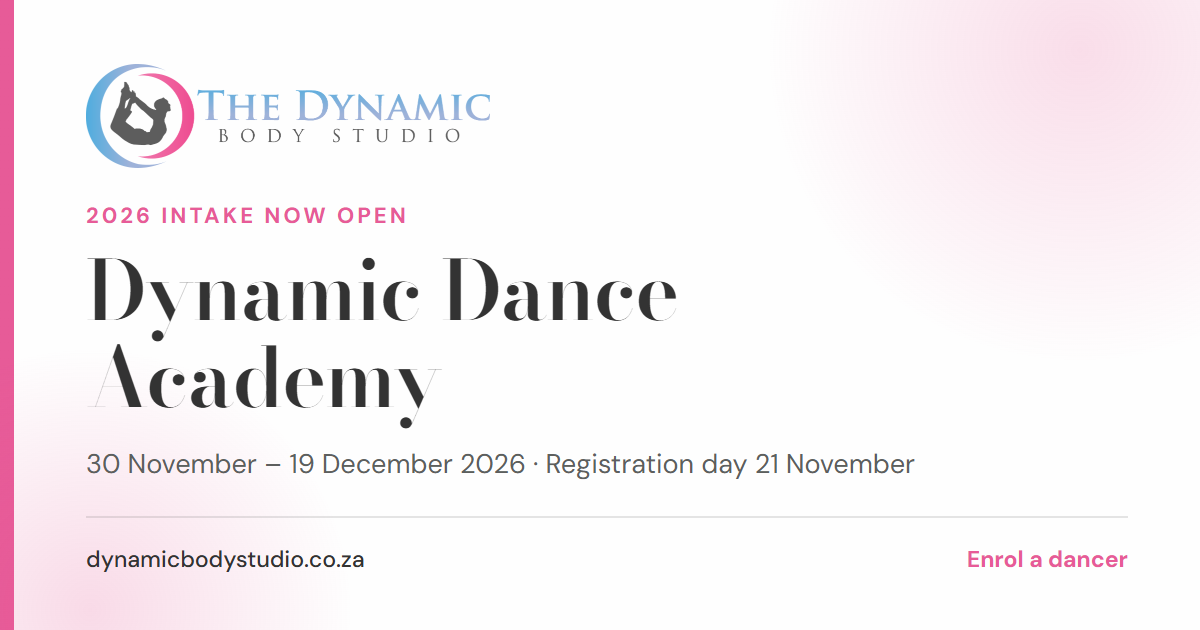
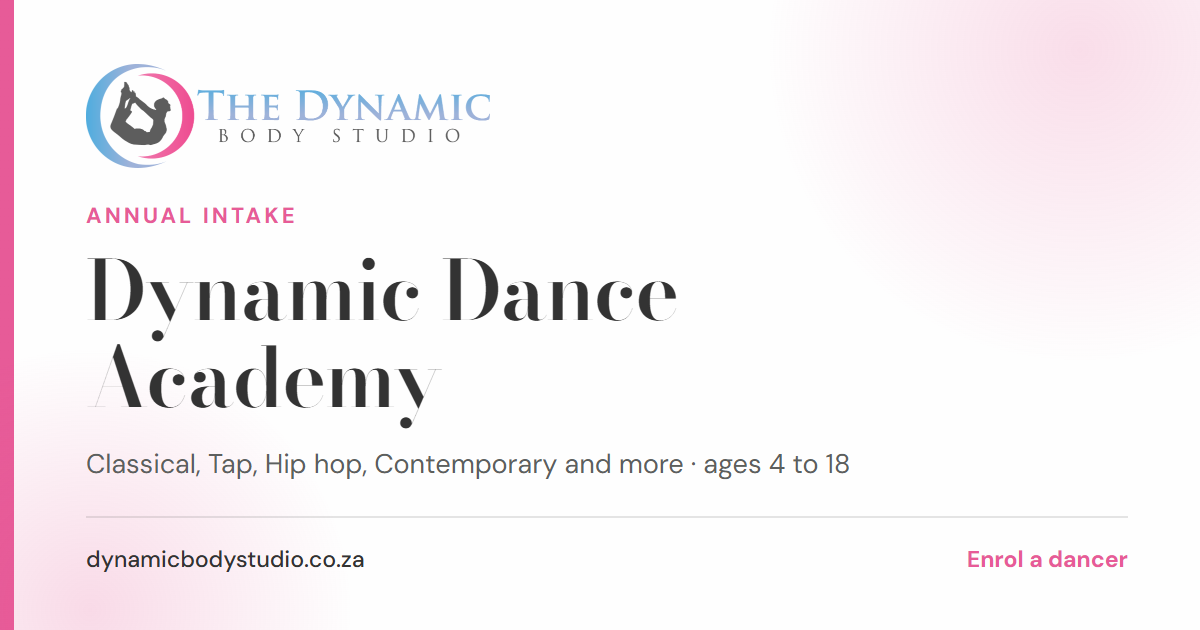
Make the share cards evergreen; enforce it in the gate
Owner: "maybe we shouldn't put dates on the og images so they're evergreen every
year without needing to change them?" Right, and for a sharper reason than tidiness.

The intake date already lives in three places (home banner, academy hero, hub card)
and all three must move together. A dated card makes it four - and the worst of the
four, because social platforms cache an image by URL. A page we can correct in a
minute; a cached card we cannot. A card still reading "2026 intake now open" in
January 2027 is worse than a card with no date at all.

Cards now carry no year, no date and no open/closed state. Each is a stable
description of what the page is:
  dance-academy  "Annual intake / Dynamic Dance Academy / ...ages 4 to 18"
  twinkle-toes   "Ballet for the little ones / Twinkle Toes Ballet"
The season lives on the page, which is always current.

Preview text made evergreen to match, since og:title and og:description appear
beside the card:
  dance-academy  dropped "2026" and the run dates
  twinkle-toes   dropped "next intake 2027" and the 2026-closed note
Also fixed the twinkle-toes <title>, which still said "Enrol" while the intake is
closed.

Gate extended to enforce the whole share-preview contract per page, not just the
image: correct card, 1200x630, summary_large_image, and no year or month in the
preview text. The generator now owns all of it.

Five controls, all proven to fail:
  OG_CARD_CONTROL_DATED=1    a dated card          -> NOT EVERGREEN
[…]

Changed region(s): [[0.0617, 0.7238, 0.7708, 0.754], [0.0617, 0.3317, 0.3392, 0.3619]]

diff --git a/_tools/gen_og_cards.js b/_tools/gen_og_cards.js
@@ -28,6 +28,21 @@ const OUT_DIR = path.join(ROOT, 'assets', 'og');
 // accent: 'blue' for studio/pilates, 'pink' for dance. Palette is read from the
 // site's own :root, not invented - see index.html lines 22-26.
 // ---------------------------------------------------------------------------
+// ---------------------------------------------------------------------------
+// The cards. One per shareable page.
+//
+// EVERGREEN BY DESIGN - owner decision 2026-10-08. These carry NO year, NO date and
+// NO open/closed state. Reasoning, and it is not cosmetic:
+//   * The intake date already lives in THREE places on the site (home banner, academy
+//     hero, hub card) and all three must move together. A dated card makes it four.
+//   * Social platforms cache an image by URL. A page we can correct in a minute; a
+//     cached card we cannot. A card still reading "2026 intake now open" in January
+//     2027 is worse than a card with no date at all.
+//   * A card's job is to earn the click. The page it links to always carries the
+//     current season, and that is the only place that should.
+// The annual routine therefore does NOT touch assets/og/. If you add a date here,
+// the gate below will fail the build - that is deliberate.
+// ---------------------------------------------------------------------------
 const CARDS = [
   {
     out: 'home.png',
@@ -55,29 +70,43 @@ const CARDS = [
   },
   {
     out: 'dance-academy.png',
-    kicker: '2026 intake now open',
+    kicker: 'Annual intake',
     title: 'Dynamic Dance Academy',
-    sub: '30 November \u2013 19 December 2026 \u00b7 Registration day 21 November',
+    sub: 'Classical, Tap, Hip hop, Contemporary and more \u00b7 ages 4 to 18',
     cta: 'Enrol a dancer',
     accent: 'pink',
   },
   {
     out: 'twinkle-toes.png',
-    kicker: 'Next intake 2027',
+    kicker: 'Ballet for the little ones',
     title: 'Twinkle Toes Ballet',
     sub: 'Ballet for our youngest dancers \u00b7 East London',
-    cta: 'Ask about 2027',
+    cta: 'Ask about the next intake',
     accent: 'pink',
   },
 ];
+
+// Which page uses which card. Checked by the share-preview gate below, so a page
+// pointing at the wrong card - or at the old logo - fails the build.
+const PAGES = {
+  'index.html': 'home.png',
+  'forms.html': 'enrol.png',
+  'enrol.html': 'studio.png',
+  'dance-academy.html': 'dance-academy.png',
+  'twinkle-toes.html': 'twinkle-toes.png',
+};
 
 // ---------------------------------------------------------------------------
 // CONTROLS - prove the layout gate can fail before trusting it.
 // An unproven check is decoration.
 //   OG_CARD_CONTROL_LONG=6   repeat the headline until it MUST overflow the frame
 //   OG_CARD_CONTROL_LOGO=1   reinstate the squashed-logo CSS that caused the bug
-// Both are expected to produce FAIL. If either passes, the gate is not working.
+//   OG_CARD_CONTROL_DATED=1  put a season back into a card, as the old version had
+// All are expected to produce FAIL. If any passes, the gate is not working.
 // ---------------------------------------------------------------------------
+if (process.env.OG_CARD_CONTROL_DATED) {
+  CARDS[3].sub = '30 November \u2013 19 December 2026 \u00b7 Registration day 21 November';
+}
 if (process.env.OG_CARD_CONTROL_LONG) {
   const n = Math.max(1, Number(process.env.OG_CARD_CONTROL_LONG) || 6);
   const filler = Array.from({ length: n }, () => 'Longword').join(' ');
@@ -335,6 +364,17 @@ function pngSize(buf) {
 
     const size = pngSize(fs.readFileSync(file));
     const reasons = [];
+
+    // EVERGREEN POLICY (owner 2026-10-08). A card must not carry a year, a month name or a
+    // date. Social platforms cache the image by URL, so a dated card goes stale and cannot be
+    // corrected quickly - "2026 intake now open" still showing in January 2027 is worse than
+    // no date at all. The season belongs on the page, which is always current. The annual
+    // routine must not need to touch assets/og/.
+    const cardText = [card.kicker, card.title, card.sub, card.cta].join(' | ');
+    const yearHit = cardText.match(/\b(19|20)\d{2}\b/);
+    const monthHit = cardText.match(/\b(January|February|March|April|May|June|July|August|September|October|November|December|Jan|Feb|Mar|Apr|Jun|Jul|Aug|Sept|Sep|Oct|Nov|Dec)\b/i);
+    if (yearHit) reasons.push(`NOT EVERGREEN - card text names a year: "${yearHit[0]}"`);
+    if (monthHit) reasons.push(`NOT EVERGREEN - card text names a month: "${monthHit[0]}"`);
     if (!size || size.w !== 1200 || size.h !== 630) reasons.push(`size ${size ? size.w + 'x' + size.h : 'not a PNG'}`);
     if (m.collide) reasons.push('subline collides with footer');
     if (m.outOfFrame.length) reasons.push('out of frame: ' + m.outOfFrame.join('; '));
@@ -366,6 +406,35 @@ function pngSize(buf) {
   console.log('\nfonts actually applied in the render:');
   report.forEach((r) => console.log(`  ${r.out.padEnd(20)} ${r.usedH.split(',')[0].replace(/"/g, '')}  `
     + `bodoni=${r.bodoniLoaded} dm=${r.dmLoaded}`));
+
+  // -------------------------------------------------------------------------
+  // Share-preview gate: every page must point at the right card, at 1200x630,
+  // declare summary_large_image, and keep its preview text evergreen.
+  // -------------------------------------------------------------------------
+  console.log('\n--- SHARE PREVIEW PER PAGE ---');
+  for (const [page, card] of Object.entries(PAGES)) {
+    const src = fs.readFileSync(path.join(ROOT, page), 'utf8');
+    const tag = (re) => (src.match(re) || [])[1];
+    const want = `https://dynamicbodystudio.co.za/assets/og/${card}`;
+    const got = tag(/<meta property="og:image" content="([^"]+)"/);
+    const problems = [];
+    if (got !== want) problems.push(`og:image is ${got || 'MISSING'} (want ${want})`);
+    if (tag(/<meta property="og:image:width" content="([^"]+)"/) !== '1200') problems.push('og:image:width not 1200');
+    if (tag(/<meta property="og:image:height" content="([^"]+)"/) !== '630') problems.push('og:image:height not 630');
+    if (tag(/<meta name="twitter:card" content="([^"]+)"/) !== 'summary_large_image') problems.push('twitter:card not summary_large_image');
+
+    // evergreen preview text - same rule as the cards, same reason
+    const text = ['og:title', 'og:description', 'og:image:alt']
+      .map((k) => tag(new RegExp(`<meta property="?${k}"? content="([^"]+)"`)) || '').join(' | ');
+    const y = text.match(/\b(19|20)\d{2}\b/);
+    const mo = text.match(/\b(January|February|March|April|May|June|July|August|September|October|November|December)\b/i);
+    if (y) problems.push(`preview text names a year: "${y[0]}"`);
+    if (mo) problems.push(`preview text names a month: "${mo[0]}"`);
+
+    if (problems.length) failed = true;
+    console.log(`  ${page.padEnd(20)} -> ${card.padEnd(20)} ${problems.length ? 'FAIL' : 'OK'}`);
+    problems.forEach((x) => console.log(`        ! ${x}`));
+  }
 
   console.log(failed ? '\nCARDS: FAIL' : '\nCARDS: PASS');
   process.exit(failed ? 1 : 0);

diff --git a/twinkle-toes.html b/twinkle-toes.html
@@ -3,18 +3,18 @@
 <head>
 <meta charset="UTF-8">
 <meta name="viewport" content="width=device-width, initial-scale=1.0">
-<title>Twinkle Toes Ballet — Enrol</title>
+<title>Twinkle Toes Ballet — The Dynamic Body Studio</title>
 <meta name="description" content="Enrol your little ballerina at Twinkle Toes Ballet, The Dynamic Body Studio, East London.">
 <link rel="canonical" href="https://dynamicbodystudio.co.za/twinkle-toes.html">
-<meta property="og:title" content="Twinkle Toes Ballet — next intake 2027">
-<meta property="og:description" content="Ballet for our youngest dancers at The Dynamic Body Studio, East London. The 2026 intake has closed; the next opens in 2027.">
+<meta property="og:title" content="Twinkle Toes Ballet — The Dynamic Body Studio">
+<meta property="og:description" content="Ballet for our youngest dancers at The Dynamic Body Studio, East London. Intake dates are on the page.">
 <meta property="og:type" content="website">
 <meta property="og:url" content="https://dynamicbodystudio.co.za/twinkle-toes.html">
 <meta property="og:image" content="https://dynamicbodystudio.co.za/assets/og/twinkle-toes.png">
 <meta property="og:image:width" content="1200">
 <meta property="og:image:height" content="630">
 <meta property="og:image:type" content="image/png">
-<meta property="og:image:alt" content="Twinkle Toes Ballet at The Dynamic Body Studio — next intake 2027">
+<meta property="og:image:alt" content="Twinkle Toes Ballet at The Dynamic Body Studio, East London">
 <meta name="twitter:card" content="summary_large_image">
 <meta name="twitter:image" content="https://dynamicbodystudio.co.za/assets/og/twinkle-toes.png">
 <link rel="icon" type="image/png" href="assets/logo.png">

diff --git a/dance-academy.html b/dance-academy.html
@@ -18,15 +18,15 @@
 <title>Dynamic Dance Academy 2026 — Enrol</title>
 <meta name="description" content="Enrol at the Dynamic Dance Academy, East London. Classical, Tap, Hip hop, Contemporary and more for ages 4 to 18.">
 <link rel="canonical" href="https://dynamicbodystudio.co.za/dance-academy.html">
-<meta property="og:title" content="Dynamic Dance Academy 2026 — enrol">
-<meta property="og:description" content="The 2026 intake is open. The academy runs 30 November – 19 December 2026, with registration day on 21 November. East London.">
+<meta property="og:title" content="Dynamic Dance Academy — enrol a dancer">
+<meta property="og:description" content="Classical, Tap, Hip hop, Contemporary and more, ages 4 to 18, at The Dynamic Body Studio in East London.">
 <meta property="og:type" content="website">
 <meta property="og:url" content="https://dynamicbodystudio.co.za/dance-academy.html">
 <meta property="og:image" content="https://dynamicbodystudio.co.za/assets/og/dance-academy.png">
 <meta property="og:image:width" content="1200">
 <meta property="og:image:height" content="630">
 <meta property="og:image:type" content="image/png">
-<meta property="og:image:alt" content="Dynamic Dance Academy 2026 — intake open, 30 November to 19 December 2026">
+<meta property="og:image:alt" content="Dynamic Dance Academy at The Dynamic Body Studio, East London">
 <meta name="twitter:card" content="summary_large_image">
 <meta name="twitter:image" content="https://dynamicbodystudio.co.za/assets/og/dance-academy.png">
 <link rel="icon" type="image/png" href="assets/logo.png">
